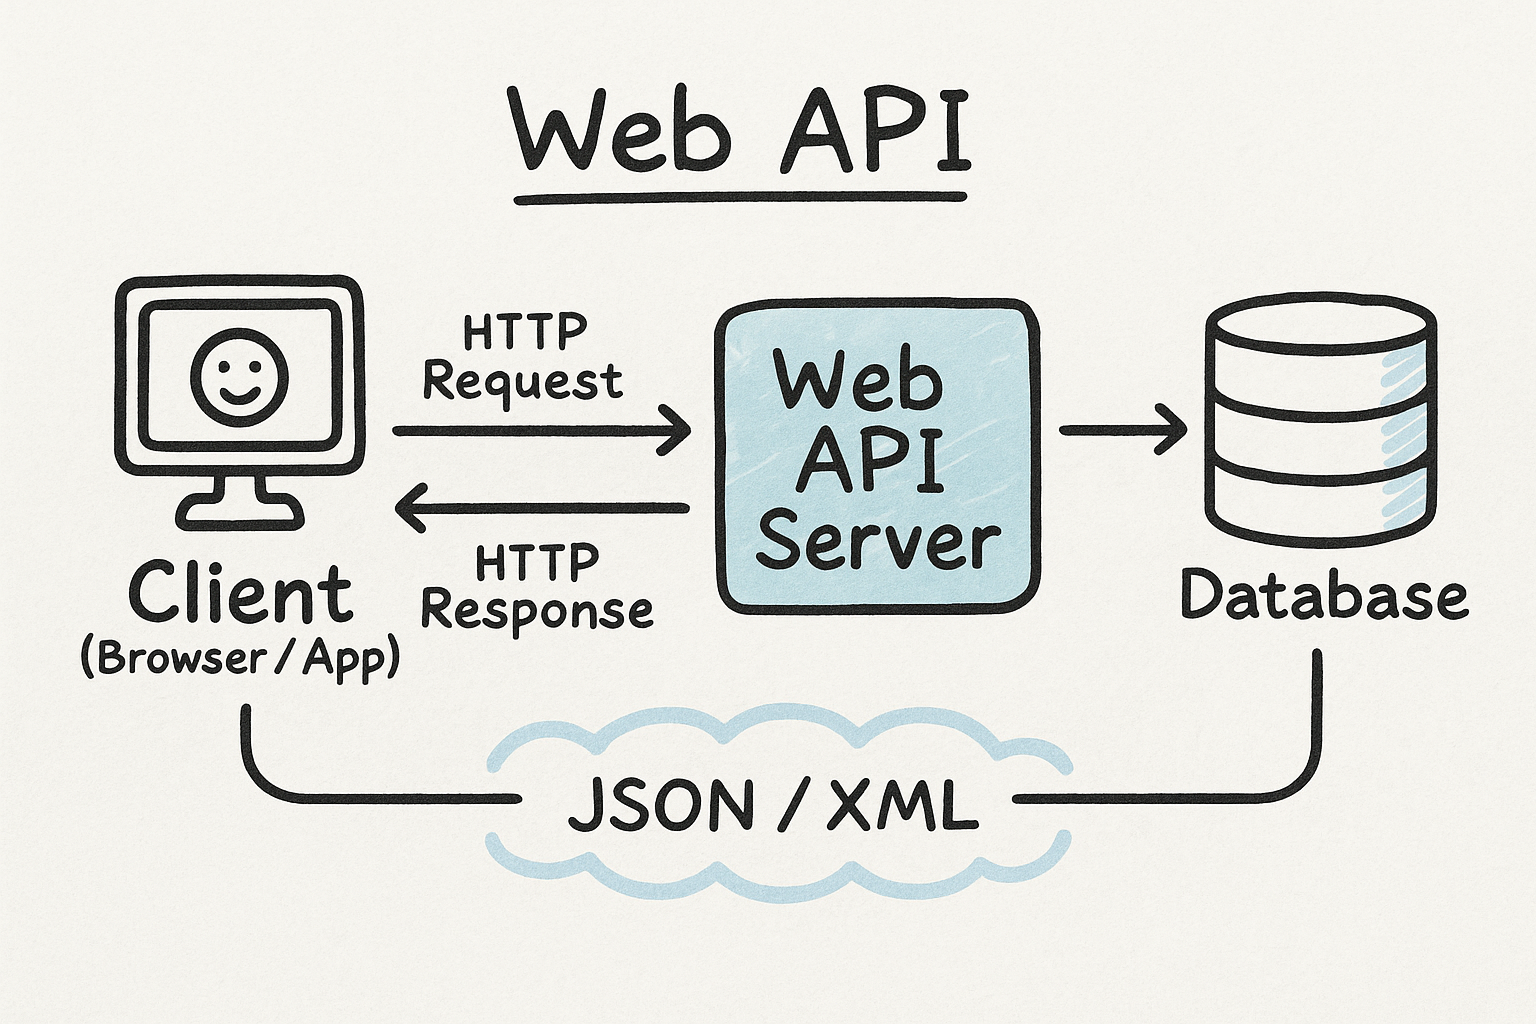
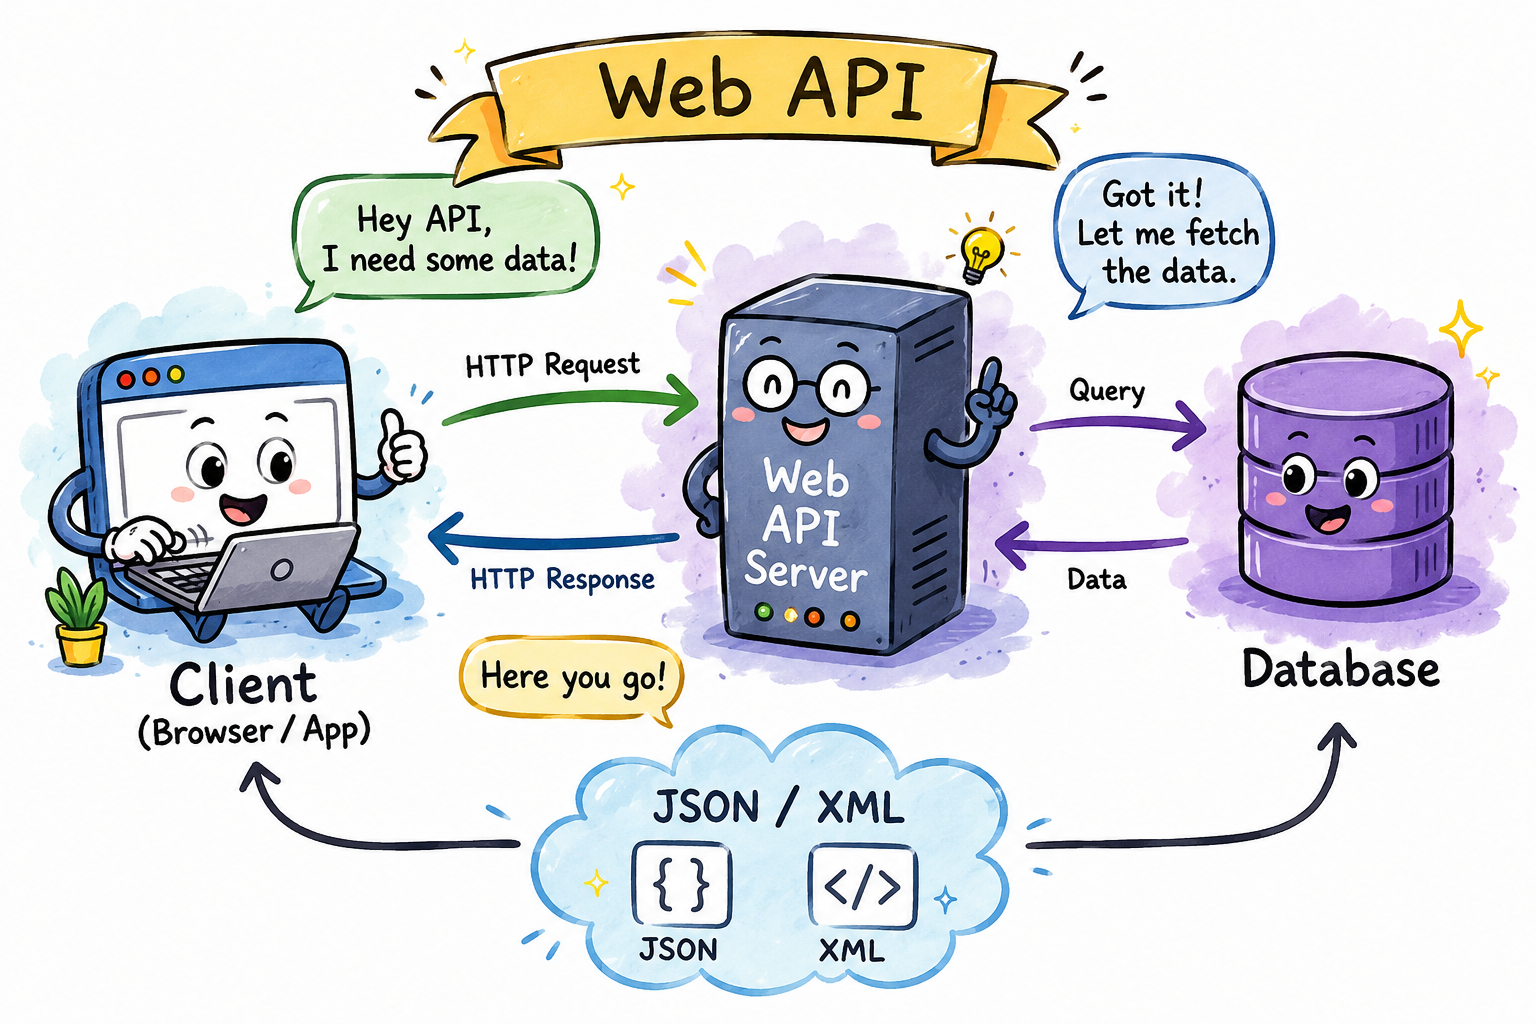
lecture 13

diff --git a/lecture13/index.html b/lecture13/index.html
@@ -505,11 +505,10 @@ for x in stock_list:
                     <h2 style="color: white">13.2 Github & AI辅助编程</h2>
                 </section>
                 <section>
-                    <div class="fragment"><img data-src="https://nextgen.group/hubfs/github_PNG65.png" style="height: 100pt"></div>
                     <h3 class="fragment"><a href="https://blog.csdn.net/black_sneak/article/details/139600633">Github教程</a></h3>
                     
-                    
-<div class="div-c fragment"><img data-src="../img/lecture13/github.png" style="height: 300pt"></div>
+                    <img data-src="../img/lecture13/github.png" style="height: 450pt">
+<!-- <div class="div-c fragment"><img data-src="../img/lecture13/github.png" style="height: 300pt"></div>
 
 <div class="div-d fragment">
     <p>GitHub 是一个基于 Git 版本控制系统 的 代码托管平台，由 GitHub 公司（现为 Microsoft 子公司）于 2008 年推出。它是全球最受欢迎的开源协作平台，广泛应用于软件开发、版本管理、团队协作和项目发布。<a href="https://github.com">GitHub官网地址：https://github.com</a></p>
@@ -518,7 +517,7 @@ for x in stock_list:
     <li>学生：学习编程、参与开源项目、积累实践经验</li>
     <li>教师：共享教学代码、布置项目作业</li>
     <li>企业/组织：进行私有项目开发、部署自动化流程</li>
-</ul></div>
+</ul></div> -->
                 </section>
                 <section>
                     <h3>Github的API接口（关于Python的项目）</h3>
@@ -632,17 +631,23 @@ fig.write_html('python_repos.html')
                 </section>
 
                 <section>
-                    <div class="fragment"><img data-src="../img/lecture13/copilot.png" style="height: 150pt"></div>
+                    <div class="div-c"><div class="fragment"><img data-src="../img/lecture13/copilot.png" style="height: 150pt"></div>
                     <h3 class="fragment"><a href="https://github.com/features/copilot">GitHub Copilot官网</a></h3>
-                    <p class="fragment">尽管 ChatGPT或者Deepseek 可以编写完整的代码，但是要与集成开发环境（Integrated Development Environment，IDE）无缝对按，使用ChatGPT 就不太方便了，尤其是在生成片段代码时，如补全一个函数的定义、补全某个语句等，在这种情况下，使用GitHub Copilot 是一个非常好的选择。当然，最好是将 ChatGPT 与 GitHub Copilot一起使用：使用 ChatGPT 生成一个完整的解决方案，并使用 GitHub Copilot 对这个解决方案进行微调。</p>
+                    <p class="fragment">尽管 ChatGPT或者Deepseek 可以编写完整的代码，但是要与集成开发环境（Integrated Development Environment，IDE）无缝对按，使用ChatGPT 就不太方便了，尤其是在生成片段代码时，如补全一个函数的定义、补全某个语句等，在这种情况下，使用GitHub Copilot 是一个非常好的选择。当然，最好是将 ChatGPT 与 GitHub Copilot一起使用：使用 ChatGPT 生成一个完整的解决方案，并使用 GitHub Copilot 对这个解决方案进行微调。</p></div>
+
+                    <div class="div-d">
+                    <div class="fragment"><img data-src="../img/lecture13/vscode.png" style="height: 450pt"></div></div>
                 </section>
-                <section>
-                    <ol>
-                        <li>安装VScode参考配置 <a href="https://blog.csdn.net/Lamber130/article/details/144590838">参考配置</a>（VScode是什么？常用IDE有哪些？）</li>
-                        <li>注册GitHub账户；3. 在VScode里面安装GitHub Copilot插件。</li>
+<!--                 <section>
+                   <div class="div-c"> <ol>
+                        <li>安装VScode参考配置 <a href="https://blog.csdn.net/Lamber130/article/details/144590838">参考配置</a></li>
+                        <li>注册GitHub账户；</li>
+                        <li>在VScode里面安装GitHub Copilot插件。</li></div>
                     </ol>
-                    <div class="fragment"><img data-src="../img/lecture13/vscode.png" style="height: 350pt"></div>
-                </section>
+<div class="div-d">
+
+                    <div class="fragment"><img data-src="../img/lecture13/vscode.png" style="height: 450pt"></div></div>
+                </section> -->
                 <section>
                     <h3>功能介绍</h3>
                     <p class="fragment">1. 自动补全注释（按Tab键）</p>
@@ -750,10 +755,6 @@ for i
                     <h2 style="color: white">13.3 Encoding（计算机编码）</h2>
                 </section>
                 <section>
-                    <div class="fragment"><img data-src="../img/lecture13/encoding.png" style="height: 400pt"></div>
-                </section>
-                <section>
-                    <h3>Encoding</h3>
                     <div class="fragment">
                         <pre><code class="language-Python" data-line-numbers data-trim contenteditable data-noescape>
 from pathlib import Path
@@ -761,9 +762,13 @@ from pathlib import Path
 path = Path('alice.txt')
 contents = path.read_text(<mark>encoding='utf-8'</mark>) 
 </pre></code>
-                    </div>
-                    <p class="fragment">Character Encoding: ASCII, Unicode, UTF-8, GBK</p>
-                    <div class="fragment"><img data-src="../img/lecture13/ASCII1.png" style="height: 350pt"></div>
+                    </div><div class="fragment"><img data-src="../img/lecture13/a.png" style="height: 350pt"></div></section>
+                
+                    <section>
+                    <div class="fragment"><img data-src="../img/lecture13/ASCII1.png" style="height: 450pt"></div>
+                </section>
+                <section>
+                    <div class="fragment"><img data-src="../img/lecture13/ascii.png" style="height: 450pt"></div>
                 </section>
                 <section>
                     <ul>
@@ -785,6 +790,9 @@ print(len(chinese))  # 输出 6（每个汉字占 3 字节）
 b'\xe4\xbd\xa0\xe5\xa5\xbd'.decode('utf-8') # 输出：你好
 </pre></code>
                     </div>
+                </section>
+                <section>
+                    <div class="fragment"><img data-src="../img/lecture13/encoding.png" style="height: 450pt"></div>
                 </section>
                 <section>
                     <ul>
